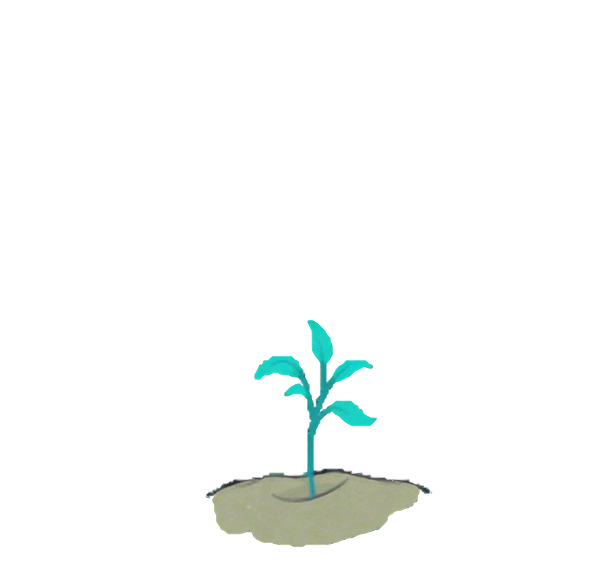
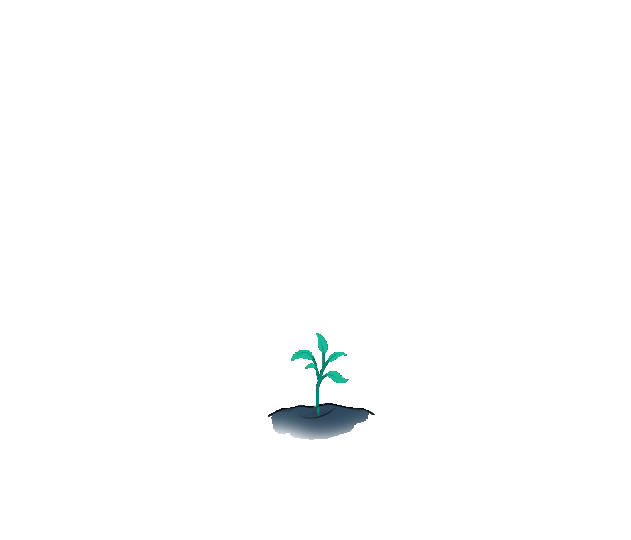
petit arbre ^^

Changed region(s): [[0.33, 0.563, 0.72, 0.9778]]

diff --git a/resources/assets/sass/app.scss b/resources/assets/sass/app.scss
@@ -306,18 +306,19 @@ bottom: 0;
 
 // Page test
 
-// @media(min-width: 735px){
+// @media(max-width: 469.98px){
 
-// 	#growing {
-// 	// border: 2px solid black;
-// 	// margin: 90px;
-// 	// height: 650px;
-
-// 		img {
+// 	#land {
 // 		display: none;
 // 		}
-// 	}
 // }
+
+#grow {
+	position: absolute;
+	top:0;
+	left:5%;
+}
+
 
 #test-bg {
     background: url('../img/tree/test_bg.jpg');
@@ -332,7 +333,7 @@ bottom: 0;
 }
 
 .centrage{
-	margin: auto;
+	// margin: auto;
 }
 
 .completed {
@@ -370,21 +371,6 @@ a.under-line{
 	background-color: rgb(51,181,229);
 	padding: 10px;
 	color: white;
-}
-
-#growing {
-	// border: 2px solid black;
-	// margin: 90px;
-	height: 650px;
-
-	img {
-		width: 100%;
-		position: absolute;
-		bottom: 150px;
-		left: 25px;
-		opacity: 0.7;
-		// border: 2px solid black;
-	}
 }
 
 #resultat{

diff --git a/public/css/app.css b/public/css/app.css
@@ -20437,6 +20437,12 @@ body {
           transform: scale(1.1);
 }
 
+#grow {
+  position: absolute;
+  top: 0;
+  left: 5%;
+}
+
 #test-bg {
   background: url(/images/test_bg.jpg?0123933cd74b01a0d54908397d480bed);
   background-size: cover;
@@ -20448,10 +20454,6 @@ body {
   right: -40px;
   bottom: 0;
   height: 90vh;
-}
-
-.centrage {
-  margin: auto;
 }
 
 .completed {
@@ -20479,18 +20481,6 @@ a.under-line {
   background-color: #33b5e5;
   padding: 10px;
   color: white;
-}
-
-#growing {
-  height: 650px;
-}
-
-#growing img {
-  width: 100%;
-  position: absolute;
-  bottom: 150px;
-  left: 25px;
-  opacity: 0.7;
 }
 
 #resultat {

diff --git a/resources/views/test/index.blade.php b/resources/views/test/index.blade.php
@@ -32,7 +32,7 @@
 					
 							@if($resultat->question_id != $first)
 
-								<button class="previous">previous</button>
+								<button class="previous">Retour</button>
 
 							@endif
 
@@ -43,7 +43,12 @@
 				<a id="resultat" href="results?profile=" class="completed" >Résultats</a>
 			</div>
 
-			<div class="col- col-md-3 offset-col-md-1" id="growing"></div>
+			<div class="col-md-3" id="land">
+				<img src="images/land.png" alt="land">
+				<div id="grow">
+					<img src="images/grow01.png" alt="grow01">
+				</div>
+			</div>
 
 			
 
@@ -95,23 +100,20 @@ $(function() {
 			}
 		}
 
-		if($tab.length == 0){
-			$('#growing').html('<img src="images/grow01.png" alt="grow01">');
-		}
-		else if($tab.length >= 1 && $tab.length <= 2) {
-			$('#growing').html('<img src="images/grow02.png" alt="grow02">');
+		if($tab.length >= 1 && $tab.length <= 2) {
+			$('#grow').html('<img src="images/grow02.png" alt="grow02">');
 		}
 		else if($tab.length >= 3 && $tab.length <= 6) {
-			$('#growing').html('<img src="images/grow03.png" alt="grow03">');
+			$('#grow').html('<img src="images/grow03.png" alt="grow03">');
 		}
 		else if($tab.length >= 7 && $tab.length <= 11) {
-			$('#growing').html('<img src="images/grow04.png" alt="grow04">');
+			$('#grow').html('<img src="images/grow04.png" alt="grow04">');
 		}
 		else if($tab.length >= 12 && $tab.length <= 14) {
-			$('#growing').html('<img src="images/grow05.png" alt="grow05">');
+			$('#grow').html('<img src="images/grow05.png" alt="grow05">');
 		}
 		else {
-			$('#growing').html('<img src="images/grow06.png" alt="grow06">');
+			$('#grow').html('<img src="images/grow06.png" alt="grow06">');
 			$('#resultat').removeClass('completed');
 		}
 
